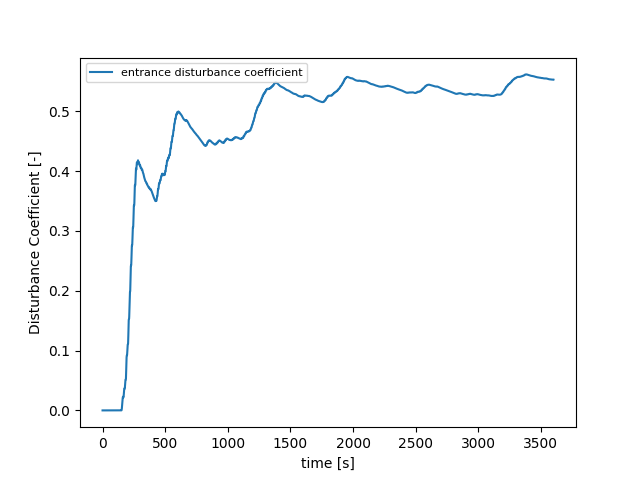
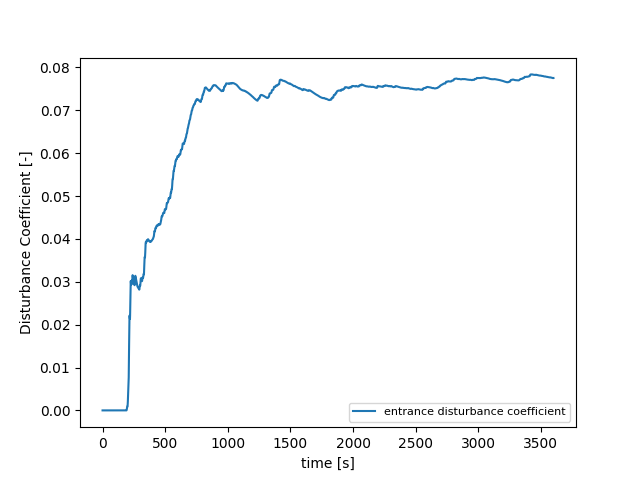
hello v2

diff --git a/Wave calculations/entrance disturbance/after/after 290.py b/Wave calculations/entrance disturbance/after/after 290.py
@@ -2,7 +2,7 @@ import numpy as np
 import matplotlib.pyplot as plt
 import pandas as pd
 
-df=pd.read_excel('entrance 290.xlsx',skiprows=1)
+df=pd.read_excel('after 290.xlsx',skiprows=1)
 
 locations=['entrance']
 
